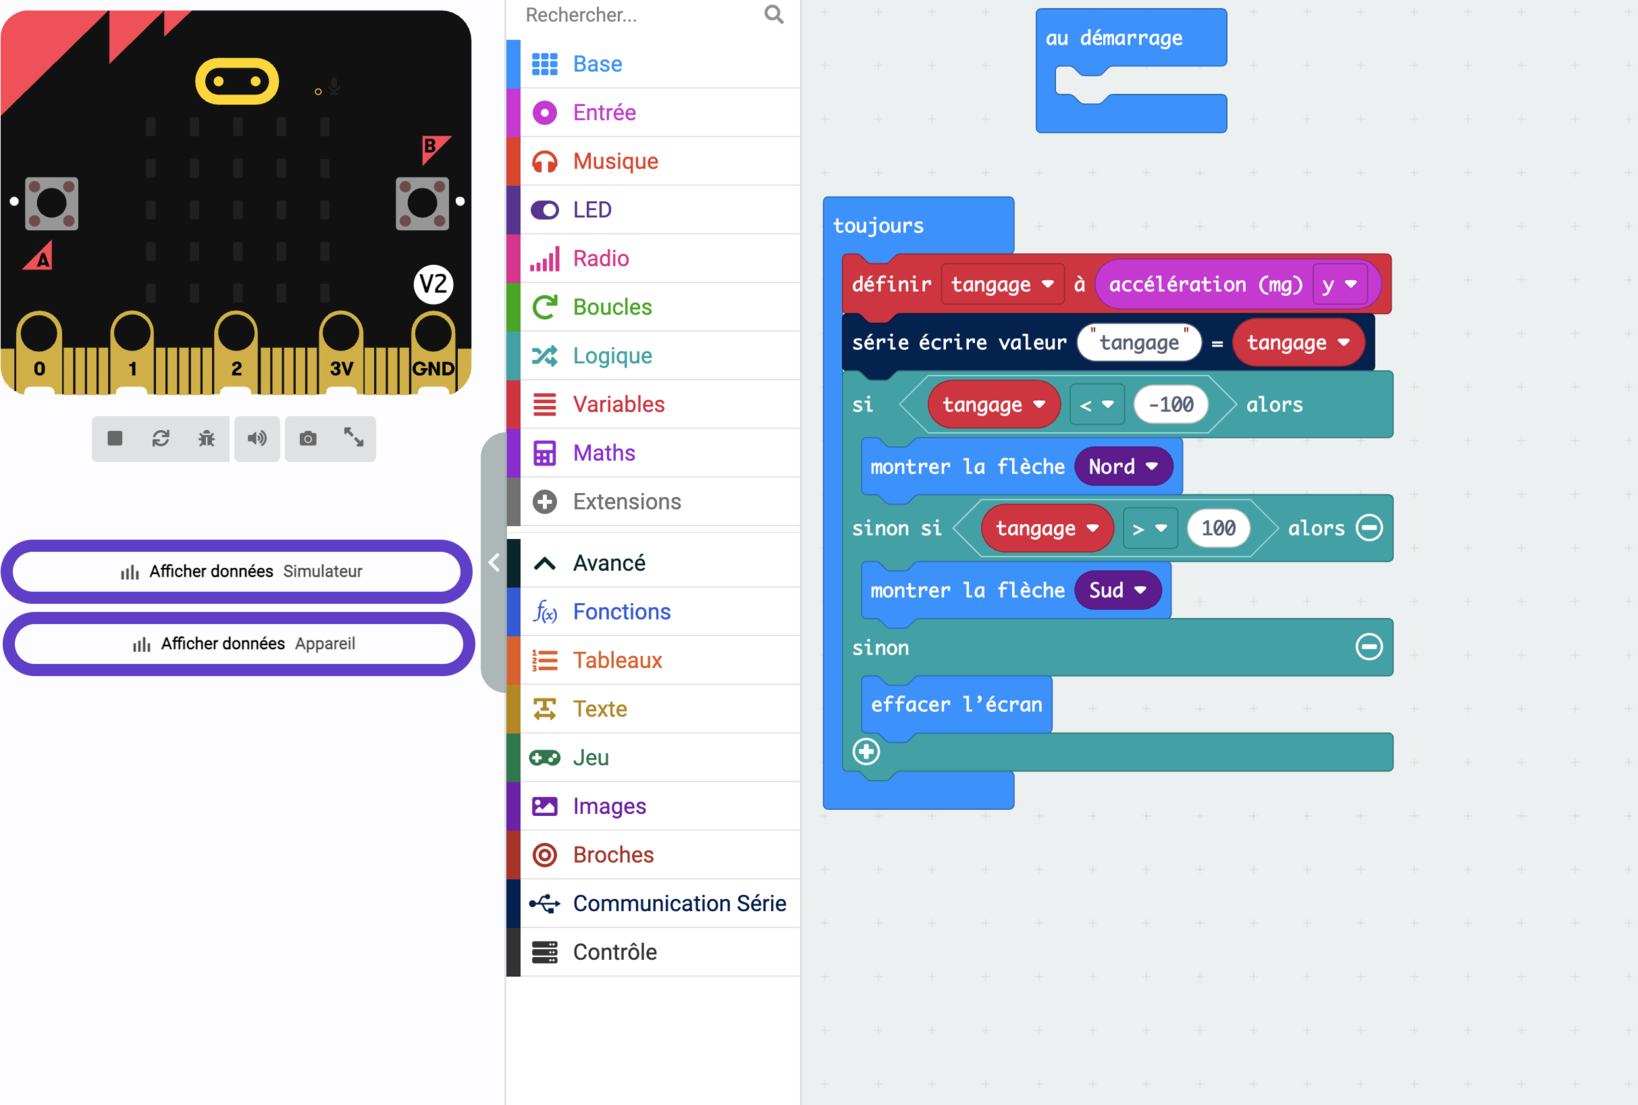
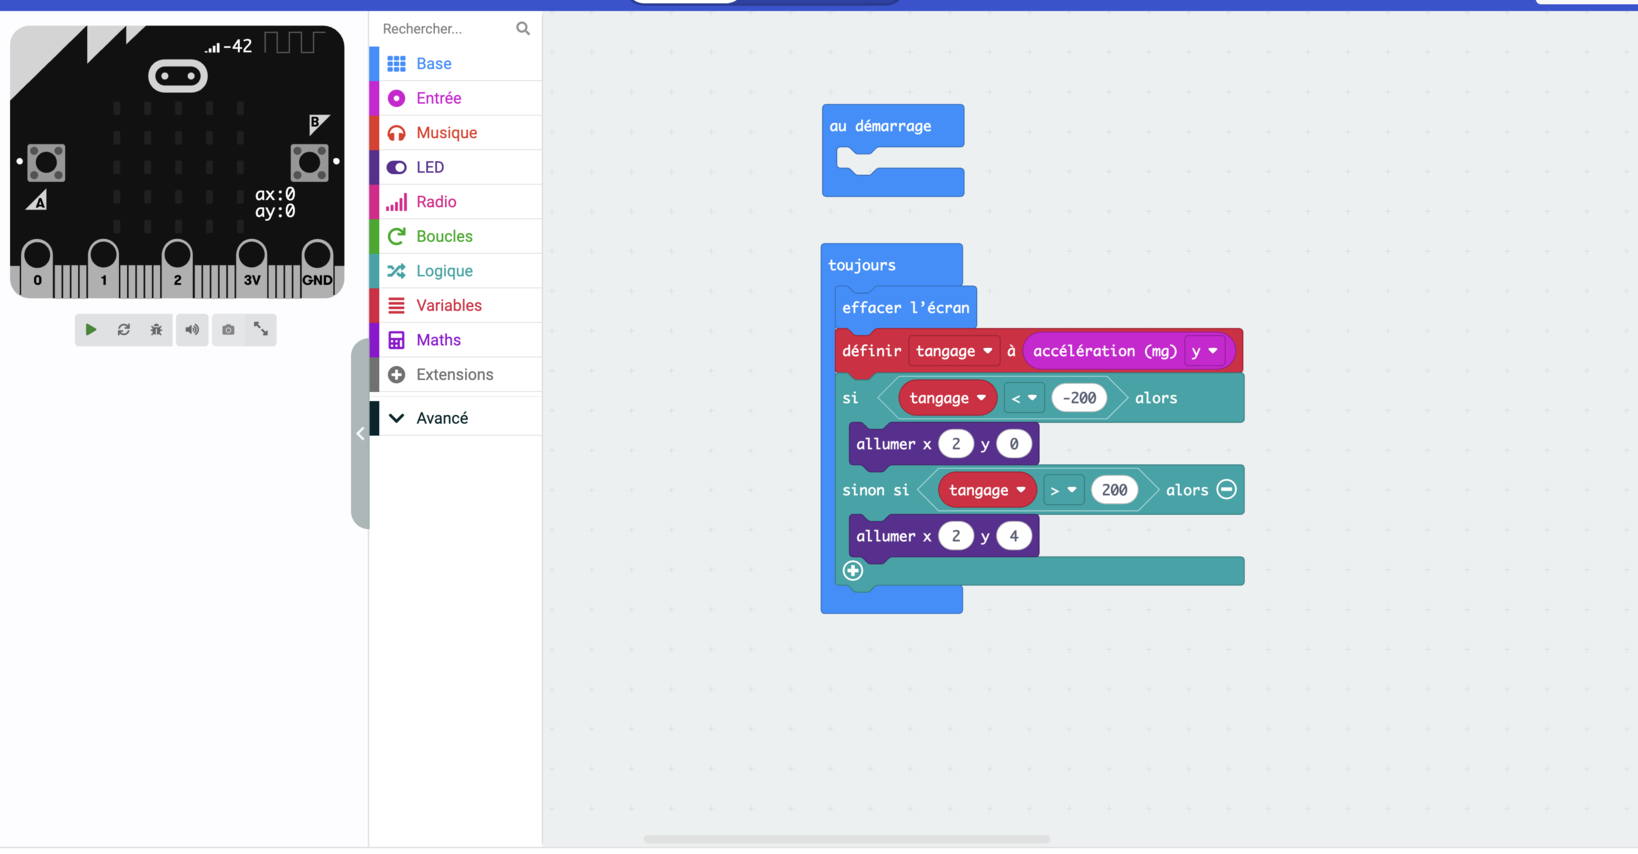
S3 : la télécommande affiche un point LED, plus une flèche
montrer la flèche attend 400 ms après avoir affiché, et cette durée
n'est pas réglable en blocs : la boucle ne relit l'accéléromètre que
2,5 fois par seconde. allumer x y n'attend pas.

Cinq points sur la grille 5x5 — haut, bas, gauche, droite, et le centre
au repos, qui fait qu'un écran noir signifie programme arrêté.

Trois captures remplacées. Seuils passés de -100/+100 à -200/+200,
effacer l'écran remonté en tête du toujours, tests à plat dès la S3.

Fiche MakeCode : exemple de code aligné, et section « Afficher vite ».

Changed region(s): [[0.0, 0.0, 1.0, 0.8829], [0.4982, 0.1218, 0.8718, 0.7307], [0.3736, 0.9742, 0.4982, 1.0]]

diff --git a/docs/projets/rover/seances/s03-identite-et-telecommande.md b/docs/projets/rover/seances/s03-identite-et-telecommande.md
@@ -155,36 +155,39 @@ Téléverse, garde le câble branché, puis clique sur **Afficher données Appar
 
 Le capteur donne un nombre. Toi, tu veux une direction. Il te faut un **seuil** : à partir de quelle valeur décide-t-on que ça penche vraiment ?
 
-Range d'abord la mesure dans une **variable** — une boîte nommée où tu poses une valeur pour la relire plus loin. Appelle-la `tangage`.
+Range d'abord la mesure dans une **variable**, `tangage`. Puis décide avec **`si … alors`**, dans **Logique**.
 
-Puis décide avec **`si … alors`**, qui n'exécute une branche que si sa condition est vraie ; `sinon` attrape tout le reste.
+Pour afficher, prends **`allumer x y`** dans **LED** : il allume un point sur la grille de 5 × 5. `x` va de `0` à gauche à `4` à droite, `y` de `0` en haut à `4` en bas.
 
 <figure class="screenshot" markdown>
-![Le programme : définir tangage à accélération y, si tangage inférieur à -100 montrer flèche Nord, sinon si supérieur à 100 montrer flèche Sud, sinon effacer l'écran](../../../assets/rover-s03/34-programme-tangage.png)
-<figcaption>−100 et 100 sont les seuils de ce rover. Trouve les tiens.</figcaption>
+![Le programme : effacer l'écran, définir tangage à accélération y, si tangage inférieur à -200 allumer x 2 y 0, sinon si supérieur à 200 allumer x 2 y 4](../../../assets/rover-s03/34-programme-tangage.png)
+<figcaption>−200 et 200 sont les seuils de ce rover. Trouve les tiens.</figcaption>
 </figure>
+
+> [!NOTE] Un point, pas une flèche
+> `montrer la flèche` garde la main **400 ms** avant de rendre la suite du programme. Dans une boucle qui lit le capteur en continu, ta télécommande répond avec un temps de retard. `allumer x y` est instantané.
 
 **Note tes seuils dans le carnet** : la séance 4 les reprendra tels quels.
 
 ### À toi : ajoute le roulis
 
-`tangage` gère l'avant et l'arrière. Pour la gauche et la droite, crée une seconde variable `roulis` sur l'axe `x`, et teste-la **dans le `sinon`** du premier test.
+`tangage` gère l'avant et l'arrière. Pour la gauche et la droite, crée une seconde variable `roulis` sur l'axe `x`, et remplis les deux `sinon si` qui attendent.
 
 <figure class="screenshot" markdown>
-![Un bloc si/sinon vide, sa condition encore sur « vrai », déposé dans le sinon du test de tangage](../../../assets/rover-s03/35-tangage-et-roulis.png)
-<figcaption>Le second test vient se loger ici. À toi de le remplir.</figcaption>
+![Le programme avec roulis défini et deux blocs sinon si encore sur « vrai », suivis d'un sinon vide](../../../assets/rover-s03/35-tangage-et-roulis.png)
+<figcaption>Quatre directions, quatre branches. La cinquième est pour le repos.</figcaption>
 </figure>
 
 <details markdown>
 <summary>La solution</summary>
 
 <figure class="screenshot" markdown>
-![Le programme complet : tangage et roulis définis, les tests de roulis imbriqués dans le sinon du tangage, effacer l'écran dans le sinon le plus profond](../../../assets/rover-s03/36-programme-complet.png)
+![Le programme complet : effacer l'écran en tête, tangage et roulis définis, quatre branches qui allument un point en haut, en bas, à gauche, à droite, et un sinon qui allume le centre](../../../assets/rover-s03/36-programme-complet.png)
 </figure>
 
-Le premier test vrai gagne : deux tests mis à la suite afficheraient deux flèches coup sur coup, et tu ne verrais que la dernière.
+Le premier test vrai gagne, les suivants ne sont même pas lus.
 
-Remarque où descend `effacer l'écran` — tout au fond, là où **aucun** des deux tests n'a rien trouvé.
+`effacer l'écran` est **en tête de la boucle** : chaque tour éteint tout, puis rallume un seul point. Et le dernier `sinon` allume le centre — carte à plat, l'écran n'est jamais vide, et tu vois que ton programme tourne.
 
 </details>
 
@@ -198,7 +201,7 @@ Remarque où descend `effacer l'écran` — tout au fond, là où **aucun** des 
 - [ ] Aucun îlot détaché dans tes lettres fermées
 - [ ] Tes cotes respectées : 70 × 20 × 2 mm
 - [ ] Ta seconde carte reconnue comme ta télécommande
-- [ ] Un programme qui affiche une flèche quand tu penches
+- [ ] Un programme qui allume le bon point quand tu penches
 - [ ] Tes seuils notés dans ton [carnet de bord](../../../carnet-de-bord/rover-s03.md)
 
 ## Avant de partir

diff --git a/animation/rover/s03.md b/animation/rover/s03.md
@@ -116,7 +116,9 @@ Distribution de la seconde carte, avec une phrase à ne pas escamoter : **celle-
 
 C'est la **première variable et la première conditionnelle du parcours** : les deux sont introduites en une phrase chacune sur la page, le développement est dans les fiches.
 
-Insister sur le `sinon` qui efface l'écran : sans lui, la dernière flèche reste affichée indéfiniment.
+**L'affichage se fait à la LED, pas à la flèche**, et c'est un point à expliquer plutôt qu'à imposer : `montrer la flèche` attend 400 ms après avoir affiché — durée non réglable en blocs — donc la boucle ne relit l'accéléromètre que 2,5 fois par seconde et la télécommande répond mou. `allumer x y` n'attend pas. Le faire constater avec les deux versions si le temps le permet.
+
+Insister sur `effacer l'écran` **en tête de boucle** : sans lui les points s'accumulent. Et sur le `sinon` qui allume le centre — l'écran n'est jamais vide, donc un écran noir signifie que le programme ne tourne pas.
 
 **L'exercice du roulis** clôt l'activité : seconde variable sur l'axe `x`, testée **à l'intérieur du `sinon`** du tangage. La page fournit l'échafaudage en image — un `si` / `sinon` vide déjà déposé au bon endroit — et replie le programme complet en solution. Le point à faire trouver : `effacer l'écran` descend dans le `sinon` le plus profond, là où aucun des deux tests n'a rien décidé. Ceux qui finissent vite enchaînent sur la variante +.
 
@@ -182,7 +184,9 @@ Un seul axe d'inclinaison — le tangage, sans l'exercice du roulis · seuils fo
 
 ### Les valeurs des captures
 
-Variable `tangage` sur l'axe `y`, seuils **−100** et **+100**, flèches **Nord** et **Sud**, `sinon` → `effacer l'écran`. Une variable `roulis` est créée sur l'axe `x` pour le second test imbriqué — c'est la variante +.
+Variable `tangage` sur l'axe `y`, variable `roulis` sur l'axe `x`, seuils **−200** et **+200**. Affichage par `allumer x y` : haut `2,0`, bas `2,4`, gauche `0,2`, droite `4,2`, repos `2,2`. `effacer l'écran` en tête du `toujours`.
+
+**Les tests sont à plat dès la S3** — une suite de `sinon si`, pas d'imbrication. Conséquence à connaître : la séance 4 ne peut plus présenter la linéarisation comme une transformation, puisqu'il n'y a plus rien à linéariser. Voir les notes de `s04.md`.
 
 La page présente ces seuils comme ceux du rover photographié, et demande au jeune de trouver les siens. Même logique que les vitesses moteur de la S2 : il n'y a pas de bonne valeur.
 

diff --git a/docs/fiches/makecode-prise-en-main.md b/docs/fiches/makecode-prise-en-main.md
@@ -157,15 +157,25 @@ Les blocs sont dans **Logique** : `si … alors`, et le `+` du bloc pour ajouter
 Range d'abord la mesure dans une variable :
 
 ```
+effacer l'écran
 définir tangage à accélération (mg) y
-si tangage < -100 alors      → montrer la flèche Nord
-sinon si tangage > 100 alors → montrer la flèche Sud
-sinon                        → effacer l'écran
+si tangage < -200 alors      → allumer x 2 y 0
+sinon si tangage > 200 alors → allumer x 2 y 4
+sinon                        → allumer x 2 y 2
 ```
 
-**Le `sinon` n'est pas facultatif.** C'est lui qui éteint l'écran quand la carte revient à plat. Sans lui, la dernière flèche reste affichée.
+**`effacer l'écran` est en tête de la boucle.** Chaque tour éteint tout, puis rallume un seul point. Sans lui, les points s'accumulent.
 
 L'ordre compte : le premier test vrai gagne, les suivants ne sont même pas lus. Mets en premier ce qui doit primer.
+
+### Afficher vite
+
+> [!CAUTION] `montrer la flèche` bloque 400 ms
+> `montrer la flèche`, `montrer l'icône` et `montrer les LED` **attendent après avoir affiché** — 400 ms, et en blocs cette durée n'est pas réglable. Dans une boucle qui lit un capteur en continu, le programme ne relit la mesure que deux fois et demie par seconde.
+>
+> `allumer x y`, dans **LED**, n'attend pas. Un point sur la grille de 5 × 5 : `x` de `0` à gauche à `4` à droite, `y` de `0` en haut à `4` en bas.
+
+Cinq points suffisent à faire une manette lisible : haut `2,0`, bas `2,4`, gauche `0,2`, droite `4,2`, repos `2,2`.
 
 ## La radio
 
